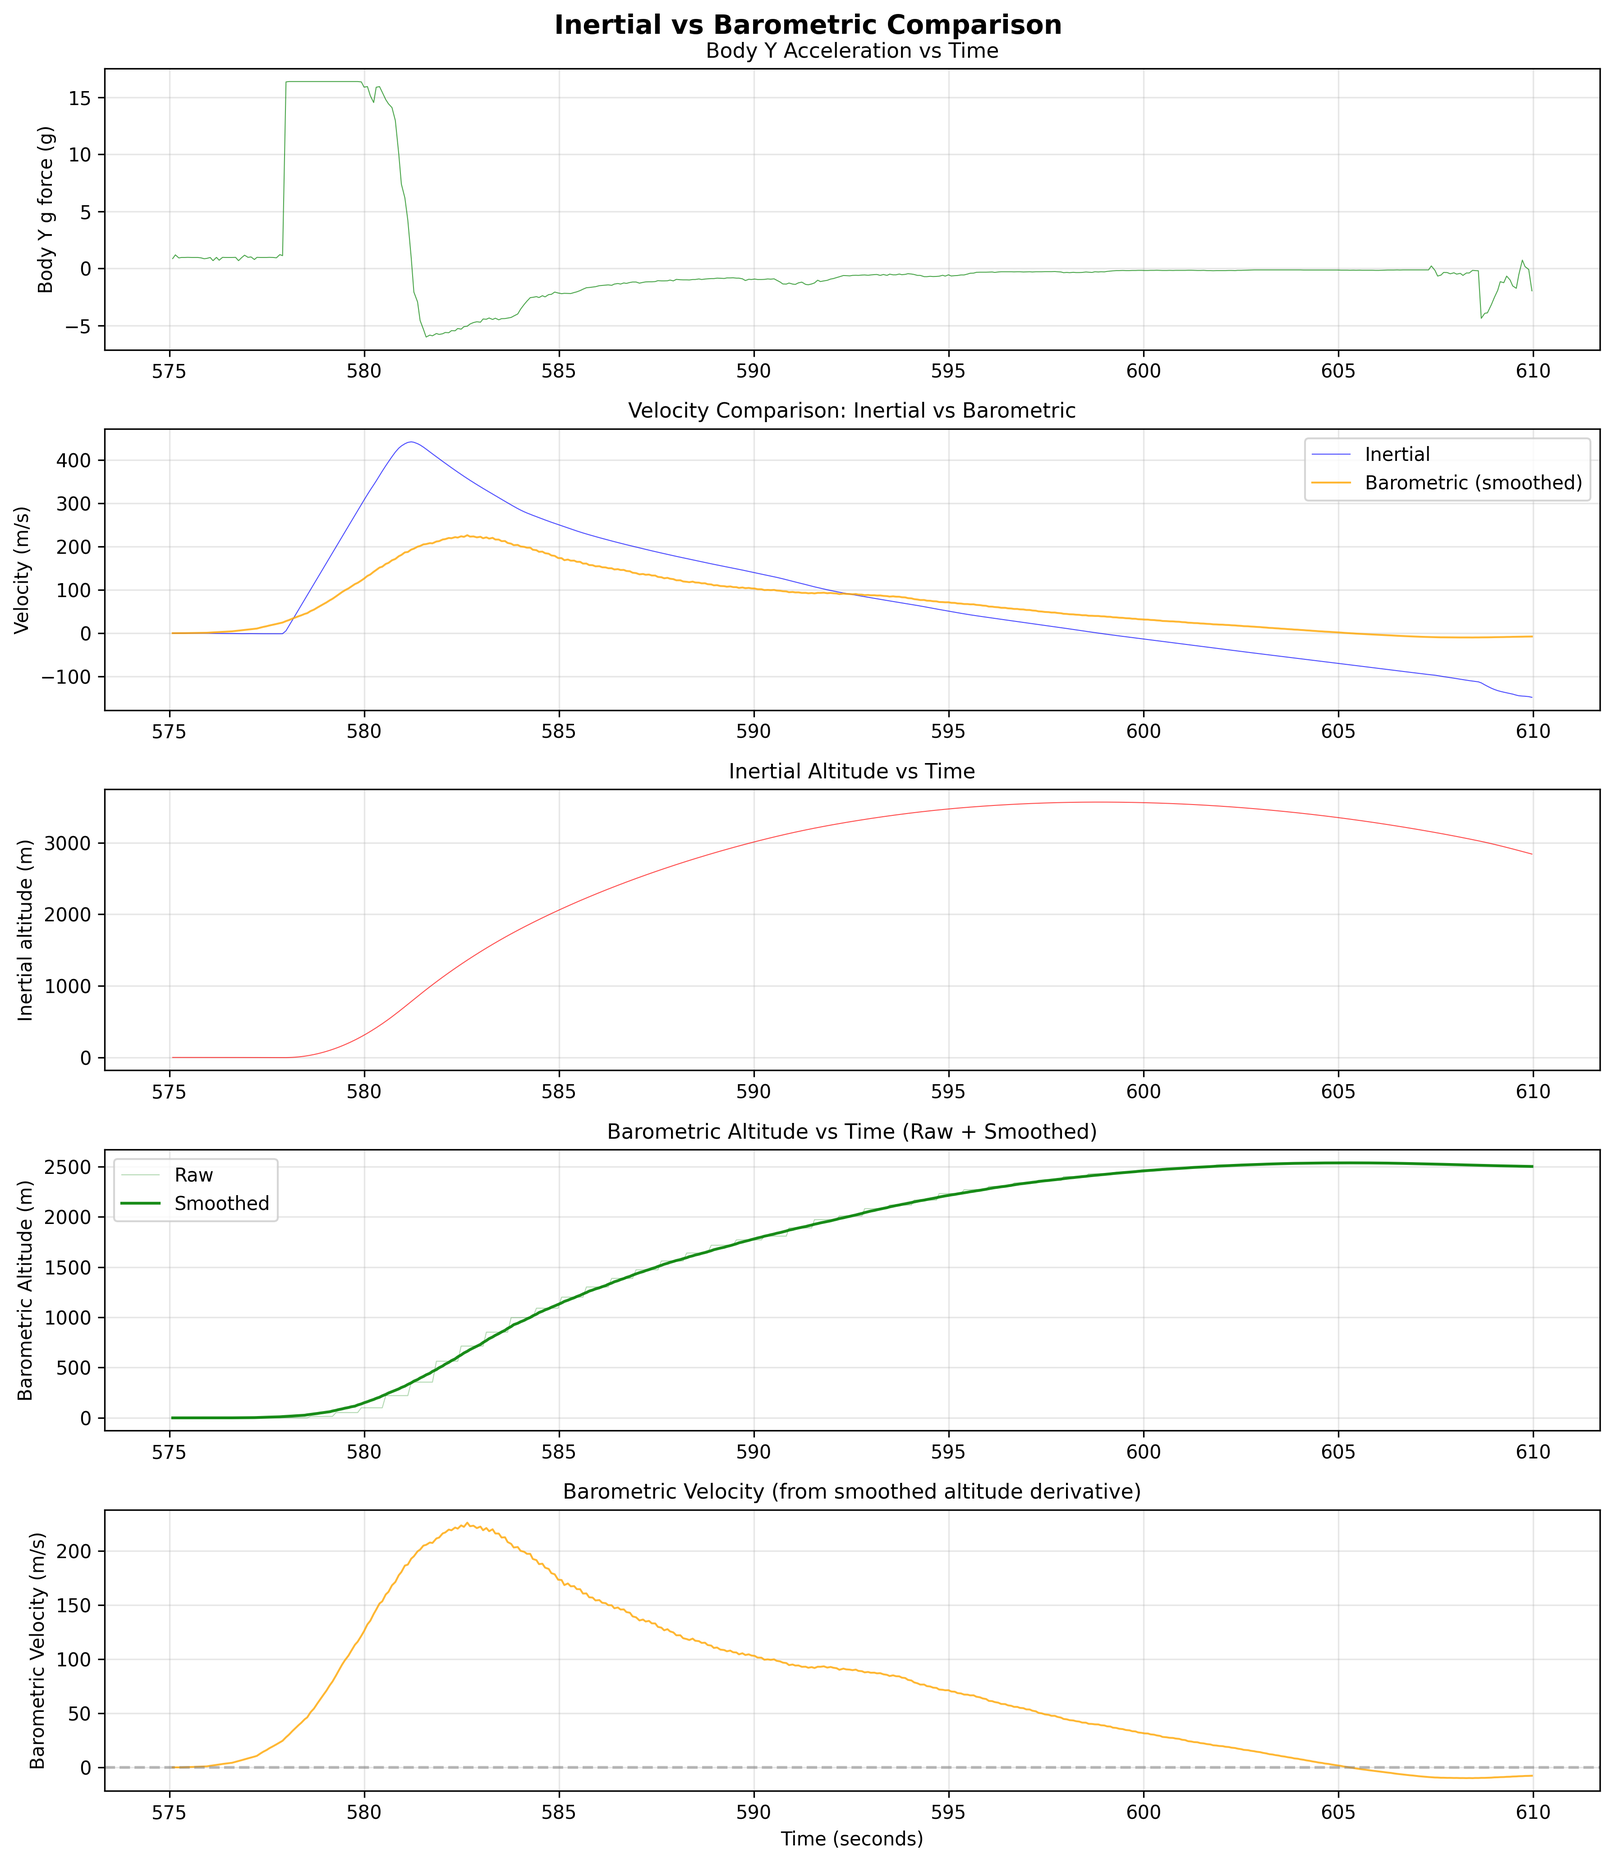
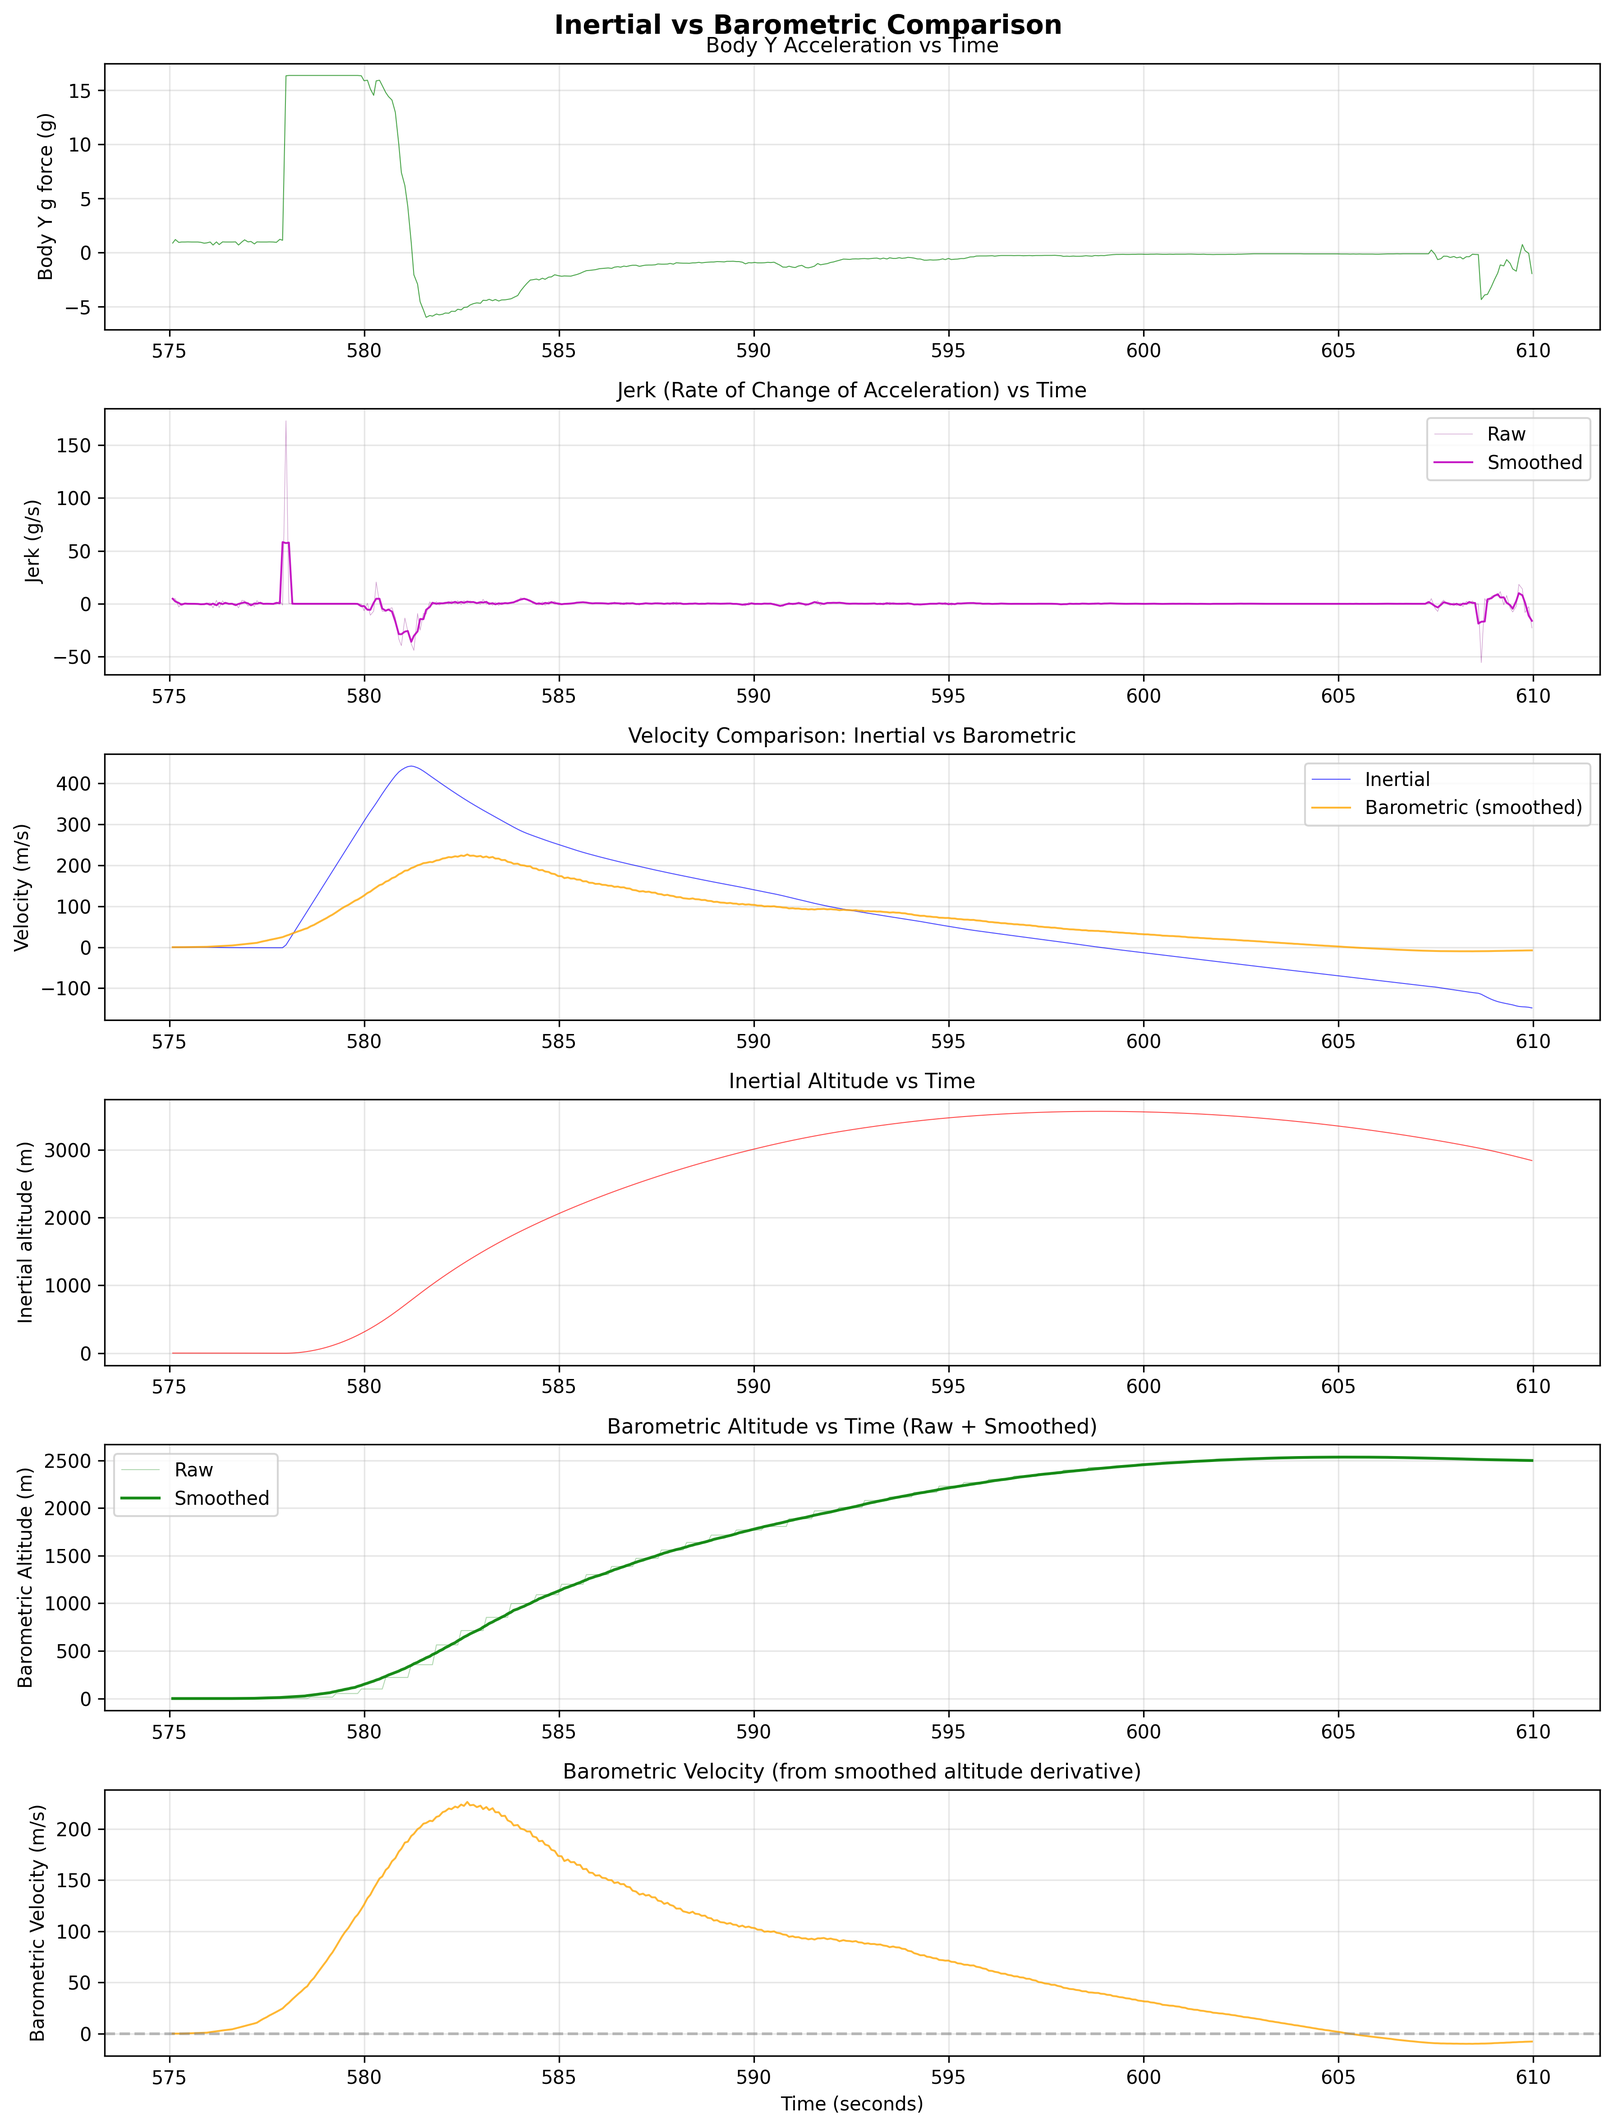
updates

diff --git a/rocket_viz.py b/rocket_viz.py
@@ -1,0 +1,184 @@
+# 3D Rocket Orientation + Flight Data Visualization
+import csv
+import numpy as np
+import matplotlib.pyplot as plt
+from matplotlib.widgets import Slider
+from mpl_toolkits.mplot3d.art3d import Poly3DCollection
+from inertial_vs_barom import local_to_global_ac, quat_to_matrix
+
+TIME_START = 575
+TIME_END = 610
+
+
+def integrate(time_data, data):
+    result = [0.0]
+    for i in range(1, len(time_data)):
+        dt = time_data[i] - time_data[i - 1]
+        avg = (data[i] + data[i - 1]) / 2.0
+        result.append(result[-1] + avg * dt)
+    return np.array(result)
+
+
+def load_data():
+    time, quats, altitudes, accels = [], [], [], []
+    with open('LOG028.TXT', 'r') as f:
+        reader = csv.DictReader(f, delimiter='\t')
+        reader.fieldnames = [h.strip() for h in reader.fieldnames]
+        for row in reader:
+            v = row['Time'].split(',')
+            t = float(v[0])
+            # Filter by configurable time range (convert seconds to ms)
+            if t < TIME_START * 1000 or t > TIME_END * 1000:
+                continue
+            xg, yg, zg = map(float, v[1:4])
+            alt = float(v[9])
+            bno_i, bno_j, bno_k, bno_real = map(float, v[13:17])
+            time.append(t / 1000)  # ms to seconds
+            quats.append((bno_real, bno_i, bno_j, bno_k))
+            altitudes.append(alt)
+            accels.append((xg, yg, zg))
+
+    # Compute global Z accel and inertial altitude
+    global_z = []
+    body_y = []
+    for idx, acc in enumerate(accels):
+        # quats stored as (w, x, y, z) = (real, i, j, k)
+        w, x, y, z = quats[idx]
+        global_acc = local_to_global_ac(acc, (w, x, y, z))
+        global_z.append(global_acc[2])
+        body_y.append(acc[1])
+
+    # Inertial altitude from body Y (thrust axis) directly
+    body_y = np.array(body_y)
+    global_z = np.array(global_z)
+    vertical_acc_y = (body_y - 1.0) * 9.80665  # g to m/s^2
+    velocity = integrate(time, vertical_acc_y)
+    inertial_alt = integrate(time, velocity)
+
+    # Subsample for animation
+    step = 3
+    return (np.array(time)[::step],
+            [quats[i] for i in range(0, len(quats), step)],
+            np.array(altitudes)[::step],
+            np.array(body_y)[::step],
+            np.array(global_z)[::step],
+            np.array(inertial_alt)[::step])
+
+
+def draw_rocket(ax, R):
+    ax.clear()
+    n = 12
+    r, h = 0.15, 1.0
+    theta = np.linspace(0, 2*np.pi, n, endpoint=False)
+
+    bottom = [(r*np.cos(t), 0, r*np.sin(t)) for t in theta]
+    top = [(r*np.cos(t), h, r*np.sin(t)) for t in theta]
+    tip = (0, h + 0.4, 0)
+
+    bottom = [R @ np.array(p) for p in bottom]
+    top = [R @ np.array(p) for p in top]
+    tip = R @ np.array(tip)
+
+    for i in range(n):
+        j = (i + 1) % n
+        ax.add_collection3d(Poly3DCollection(
+            [[bottom[i], bottom[j], top[j], top[i]]],
+            alpha=0.7, facecolor='silver', edgecolor='gray'))
+
+    for i in range(n):
+        j = (i + 1) % n
+        ax.add_collection3d(Poly3DCollection(
+            [[top[i], top[j], tip]],
+            alpha=0.8, facecolor='red', edgecolor='darkred'))
+
+    # World axes
+    ax.quiver(0, 0, 0, 1.5, 0, 0, color='r', alpha=0.5)
+    ax.quiver(0, 0, 0, 0, 1.5, 0, color='g', alpha=0.5)
+    ax.quiver(0, 0, 0, 0, 0, 1.5, color='b', alpha=0.5)
+    ax.text(1.6, 0, 0, 'X', color='r')
+    ax.text(0, 1.6, 0, 'Y↑', color='g')
+    ax.text(0, 0, 1.6, 'Z', color='b')
+
+    ax.set_xlim([-2, 2])
+    ax.set_ylim([-2, 2])
+    ax.set_zlim([-2, 2])
+    ax.set_box_aspect([1, 1, 1])
+    ax.set_xlabel('X')
+    ax.set_ylabel('Y')
+    ax.set_zlabel('Z')
+
+
+def main():
+    print("Loading data...")
+    time, quats, baro_alt, body_y, global_z, inertial_alt = load_data()
+    print(f"Loaded {len(time)} samples")
+
+    fig = plt.figure(figsize=(16, 10))
+
+    # 3D rocket (left half)
+    ax3d = fig.add_subplot(2, 2, 1, projection='3d')
+
+    # Barometric altitude (top right)
+    ax_baro = fig.add_subplot(2, 2, 2)
+    ax_baro.plot(time, baro_alt, 'g-', linewidth=1)
+    ax_baro.set_ylabel('Altitude (m)')
+    ax_baro.set_title('Barometric Altitude')
+    ax_baro.grid(True, alpha=0.3)
+    marker_baro, = ax_baro.plot([time[0]], [baro_alt[0]], 'ro', markersize=8)
+
+    # Inertial altitude from body Y (bottom left)
+    ax_inert = fig.add_subplot(2, 2, 3)
+    ax_inert.plot(time, inertial_alt, 'r-', linewidth=1)
+    ax_inert.set_ylabel('Altitude (m)')
+    ax_inert.set_title('Inertial Altitude (from Body Y)')
+    ax_inert.grid(True, alpha=0.3)
+    marker_inert, = ax_inert.plot(
+        [time[0]], [inertial_alt[0]], 'ro', markersize=8)
+
+    # Accelerations (bottom right)
+    ax_acc = fig.add_subplot(2, 2, 4)
+    ax_acc.plot(time, body_y, 'b-', linewidth=0.8,
+                alpha=0.7, label='Body Y (thrust axis)')
+    ax_acc.plot(time, global_z, 'orange', linewidth=0.8,
+                alpha=0.7, label='Global Z (vertical)')
+    ax_acc.axhline(y=1.0, color='gray', linestyle='--',
+                   alpha=0.5, label='1g reference')
+    ax_acc.set_xlabel('Time (s)')
+    ax_acc.set_ylabel('Acceleration (g)')
+    ax_acc.set_title('Body Y vs Global Z Acceleration')
+    ax_acc.legend(loc='upper right')
+    ax_acc.grid(True, alpha=0.3)
+    marker_acc_y, = ax_acc.plot([time[0]], [body_y[0]], 'bo', markersize=8)
+    marker_acc_z, = ax_acc.plot(
+        [time[0]], [global_z[0]], 'o', color='orange', markersize=8)
+
+    plt.subplots_adjust(bottom=0.12, hspace=0.3, wspace=0.25)
+
+    ax_slider = plt.axes([0.15, 0.03, 0.7, 0.025])
+    slider = Slider(ax_slider, 'Time', 0, len(time)-1, valinit=0, valstep=1)
+
+    w, x, y, z = quats[0]
+    R = quat_to_matrix(w, x, y, z)
+    draw_rocket(ax3d, R)
+    ax3d.set_title(f't = {time[0]:.2f}s')
+
+    def update(val):
+        idx = int(slider.val)
+        w, x, y, z = quats[idx]
+        R = quat_to_matrix(w, x, y, z)
+        draw_rocket(ax3d, R)
+        ax3d.set_title(f't = {time[idx]:.2f}s\nAlt = {baro_alt[idx]:.0f}m')
+
+        marker_baro.set_data([time[idx]], [baro_alt[idx]])
+        marker_inert.set_data([time[idx]], [inertial_alt[idx]])
+        marker_acc_y.set_data([time[idx]], [body_y[idx]])
+        marker_acc_z.set_data([time[idx]], [global_z[idx]])
+
+        fig.canvas.draw_idle()
+
+    slider.on_changed(update)
+    plt.show()
+
+
+if __name__ == '__main__':
+    main()

diff --git a/inertial_vs_barom.py b/inertial_vs_barom.py
@@ -3,14 +3,18 @@ import matplotlib.pyplot as plt
 import numpy as np
 
 
+def quat_to_matrix(w, x, y, z):
+    return np.array([
+        [1 - 2*(y**2 + z**2), 2*(x*y - w*z), 2*(x*z + w*y)],
+        [2*(x*y + w*z), 1 - 2*(x**2 + z**2), 2*(y*z - w*x)],
+        [2*(x*z - w*y), 2*(y*z + w*x), 1 - 2*(x**2 + y**2)]
+    ])
+
+
 def local_to_global_ac(accel_local, quat):
     r, i, j, k = quat
     ax, ay, az = accel_local
-    rotation_matrix = np.array([
-        [1 - 2*(j**2 + k**2), 2*(i*j - r*k), 2*(i*k + r*j)],
-        [2*(i*j + r*k), 1 - 2*(i**2 + k**2), 2*(j*k - r*i)],
-        [2*(i*k - r*j), 2*(j*k + r*i), 1 - 2*(i**2 + j**2)]
-    ])
+    rotation_matrix = quat_to_matrix(r, i, j, k)
     accel_vec_local = np.array([ax, ay, az])
     accel_global_standard = np.dot(rotation_matrix, accel_vec_local)
     return accel_global_standard
@@ -45,17 +49,19 @@ def derivative(time_data, data):
 
 
 def plot_inertial_vel_vs_barom(time_data, accel_data, quat_data, altitude_data):
-    fig, axes = plt.subplots(5, 1, figsize=(12, 14))
+    fig, axes = plt.subplots(6, 1, figsize=(12, 16))
     fig.suptitle('Inertial vs Barometric Comparison',
                  fontsize=14, fontweight='bold')
     global_ac = []
     for idx, acc in enumerate(accel_data):
         i, j, k, real = quat_data[idx]
-        # Using body Y acceleration directly (thrust axis)
-        global_ac.append(acc[1])
-    global_ac = np.array(global_ac)
+        global_ac.append(acc[1])  # using rocket frame y acceleration
+        # using global frame z acceleration
+        # global_ac.append(local_to_global_ac(acc, (real, i, j, k)))
 
+    global_ac = np.array(global_ac)
     global_ac_z = global_ac
+    # _, _, global_ac_z = global_ac.T
     # z is the component we care about
     # take into consideration existing 1g
     vertical_acc = (global_ac_z - 1.0) * 9.80665  # gs to m/s^2
@@ -74,39 +80,51 @@ def plot_inertial_vel_vs_barom(time_data, accel_data, quat_data, altitude_data):
     axes[0].set_title('Body Y Acceleration vs Time', fontsize=11)
     axes[0].grid(True, alpha=0.3)
 
-    axes[1].plot(time_data, vertical_velocity, 'b-', linewidth=0.5, alpha=0.7,
-                 label='Inertial')
-    axes[1].plot(time_data, barometric_velocity, 'orange', linewidth=1.0, alpha=0.8,
-                 label='Barometric (smoothed)')
-    axes[1].set_ylabel('Velocity (m/s)', fontsize=10)
+    jerk = derivative(time_data, global_ac_z)
+    jerk_smoothed = smooth_data(jerk, window_size=3)
+    axes[1].plot(time_data, jerk, 'purple',
+                 linewidth=0.3, alpha=0.4, label='Raw')
+    axes[1].plot(time_data, jerk_smoothed, 'm-',
+                 linewidth=1.0, alpha=0.9, label='Smoothed')
+    axes[1].set_ylabel('Jerk (g/s)', fontsize=10)
     axes[1].set_title(
-        'Velocity Comparison: Inertial vs Barometric', fontsize=11)
+        'Jerk (Rate of Change of Acceleration) vs Time', fontsize=11)
     axes[1].legend()
     axes[1].grid(True, alpha=0.3)
 
-    axes[2].plot(time_data, vertical_position, 'r-', linewidth=0.5, alpha=0.7)
-    axes[2].set_ylabel('Inertial altitude (m)', fontsize=10)
-    axes[2].set_title('Inertial Altitude vs Time', fontsize=11)
+    axes[2].plot(time_data, vertical_velocity, 'b-', linewidth=0.5, alpha=0.7,
+                 label='Inertial')
+    axes[2].plot(time_data, barometric_velocity, 'orange', linewidth=1.0, alpha=0.8,
+                 label='Barometric (smoothed)')
+    axes[2].set_ylabel('Velocity (m/s)', fontsize=10)
+    axes[2].set_title(
+        'Velocity Comparison: Inertial vs Barometric', fontsize=11)
+    axes[2].legend()
     axes[2].grid(True, alpha=0.3)
 
-    axes[3].plot(time_data, altitude_data, 'g-', linewidth=0.5, alpha=0.3,
-                 label='Raw')
-    axes[3].plot(time_data, altitude_smoothed, 'g-', linewidth=1.5, alpha=0.9,
-                 label='Smoothed')
-    axes[3].set_ylabel('Barometric Altitude (m)', fontsize=10)
-    axes[3].set_title(
-        'Barometric Altitude vs Time (Raw + Smoothed)', fontsize=11)
-    axes[3].legend()
+    axes[3].plot(time_data, vertical_position, 'r-', linewidth=0.5, alpha=0.7)
+    axes[3].set_ylabel('Inertial altitude (m)', fontsize=10)
+    axes[3].set_title('Inertial Altitude vs Time', fontsize=11)
     axes[3].grid(True, alpha=0.3)
 
-    axes[4].plot(time_data, barometric_velocity,
-                 'orange', linewidth=1.0, alpha=0.8)
-    axes[4].axhline(y=0, color='gray', linestyle='--', alpha=0.5)
-    axes[4].set_ylabel('Barometric Velocity (m/s)', fontsize=10)
-    axes[4].set_xlabel('Time (seconds)', fontsize=10)
+    axes[4].plot(time_data, altitude_data, 'g-', linewidth=0.5, alpha=0.3,
+                 label='Raw')
+    axes[4].plot(time_data, altitude_smoothed, 'g-', linewidth=1.5, alpha=0.9,
+                 label='Smoothed')
+    axes[4].set_ylabel('Barometric Altitude (m)', fontsize=10)
     axes[4].set_title(
-        'Barometric Velocity (from smoothed altitude derivative)', fontsize=11)
+        'Barometric Altitude vs Time (Raw + Smoothed)', fontsize=11)
+    axes[4].legend()
     axes[4].grid(True, alpha=0.3)
+
+    axes[5].plot(time_data, barometric_velocity,
+                 'orange', linewidth=1.0, alpha=0.8)
+    axes[5].axhline(y=0, color='gray', linestyle='--', alpha=0.5)
+    axes[5].set_ylabel('Barometric Velocity (m/s)', fontsize=10)
+    axes[5].set_xlabel('Time (seconds)', fontsize=10)
+    axes[5].set_title(
+        'Barometric Velocity (from smoothed altitude derivative)', fontsize=11)
+    axes[5].grid(True, alpha=0.3)
 
     plt.tight_layout()
     plt.savefig('inertial_vs_barom.png', dpi=300, bbox_inches='tight')

diff --git a/launch_log.py b/launch_log.py
@@ -170,30 +170,39 @@ def plot_quaternions(time, quat_list):
     print(f"Time range: {time[0]:.2f} to {time[-1]:.2f} ms")
 
 
-def plot_euler_angles(time, bno_x, bno_y, bno_z):
+def plot_linear_acceleration(time, bno_x, bno_y, bno_z):
+    """
+    Plot BNO080 Linear Acceleration (gravity-compensated).
+    From: bno080.getLinearAccelerometer(&bno_x, &bno_y, &bno_z)
+    Units are m/s² with gravity already removed.
+    """
     fig, axes = plt.subplots(3, 1, figsize=(16, 10))
-    fig.suptitle('BNO055 Euler Angles vs Time',
+    fig.suptitle('BNO080 Linear Acceleration (Gravity Removed) vs Time',
                  fontsize=14, fontweight='bold')
 
     axes[0].plot(time, bno_x, 'r-', linewidth=0.5, alpha=0.7)
-    axes[0].set_ylabel('BNO_X (degrees)', fontsize=10)
-    axes[0].set_title('BNO_X (Heading/Yaw)', fontsize=11)
+    axes[0].set_ylabel('Linear Accel X (m/s²)', fontsize=10)
+    axes[0].set_title('BNO_X - Linear Acceleration X', fontsize=11)
+    axes[0].axhline(y=0, color='gray', linestyle='--', alpha=0.5)
     axes[0].grid(True, alpha=0.3)
 
     axes[1].plot(time, bno_y, 'g-', linewidth=0.5, alpha=0.7)
-    axes[1].set_ylabel('BNO_Y (degrees)', fontsize=10)
-    axes[1].set_title('BNO_Y (Roll)', fontsize=11)
+    axes[1].set_ylabel('Linear Accel Y (m/s²)', fontsize=10)
+    axes[1].set_title(
+        'BNO_Y - Linear Acceleration Y (Thrust Axis)', fontsize=11)
+    axes[1].axhline(y=0, color='gray', linestyle='--', alpha=0.5)
     axes[1].grid(True, alpha=0.3)
 
     axes[2].plot(time, bno_z, 'b-', linewidth=0.5, alpha=0.7)
-    axes[2].set_ylabel('BNO_Z (degrees)', fontsize=10)
+    axes[2].set_ylabel('Linear Accel Z (m/s²)', fontsize=10)
     axes[2].set_xlabel('Time (ms)', fontsize=10)
-    axes[2].set_title('BNO_Z (Pitch)', fontsize=11)
+    axes[2].set_title('BNO_Z - Linear Acceleration Z', fontsize=11)
+    axes[2].axhline(y=0, color='gray', linestyle='--', alpha=0.5)
     axes[2].grid(True, alpha=0.3)
 
     plt.tight_layout()
-    plt.savefig('euler_angles.png', dpi=300, bbox_inches='tight')
-    print(f"Graph saved as 'euler_angles.png'")
+    plt.savefig('linear_acceleration.png', dpi=300, bbox_inches='tight')
+    print(f"Graph saved as 'linear_acceleration.png'")
     print(f"Total data points: {len(time)}")
     print(f"Time range: {time[0]:.2f} to {time[-1]:.2f} ms")
 
@@ -282,7 +291,7 @@ if __name__ == '__main__':
     airbrake_pct_data = airbrake_pct_data[min_index:max_index]
     pressure_data = pressure_data[min_index:max_index]
 
-    plot_euler_angles(time_data, bno_x_data, bno_y_data, bno_z_data)
+    plot_linear_acceleration(time_data, bno_x_data, bno_y_data, bno_z_data)
     plot_quaternions(time_data, quat_data)
     plot_body_vs_global(time_data, xg_data, yg_data, zg_data, quat_data)
     plot_acc_vs_ab_pct(time_data, yg_data, airbrake_pct_data)
